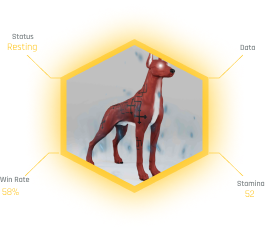
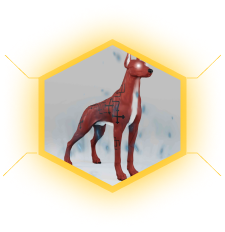
Update done

diff --git a/src/components/Card.jsx b/src/components/Card.jsx
@@ -2,13 +2,33 @@ import React from "react";
 import Dog from "../assets/images/cardDog.png";
 const Card = () => {
   return (
-    <div className="min-w-[370px] max-w-[420px] overflow-hidden rounded-xl border border-violet-500">
+    <div className="min-w-[390px] max-w-[420px] overflow-hidden rounded-xl border border-violet-500">
       <div className="w-full bg-violet-500 px-4 py-2 text-center">
         <h3 className="font-semibold text-xl">Lorem ipsum dolor sit amet.</h3>
         <p className="text-white font-semibold">Lorem, ipsum dolor.</p>
       </div>
-      <div className="flex items-center justify-center">
-        <img className="min-w-[320px]" src={Dog} alt="" />
+      <div className="flex items-center justify-center relative py-10">
+        <div className="text-white absolute top-8 left-8 text-center">
+          <p className="text-sm">Status</p>
+          <p className="text-lg font-semibold text-yellow-500">Resting</p>
+        </div>
+        <div className="text-white absolute top-8 right-8 text-center">
+          <p className="text-sm">Data</p>
+          <p className="text-lg font-semibold text-yellow-500">Lorem</p>
+        </div>
+        <div className="text-white absolute bottom-8 left-8 text-center">
+          <p className="text-sm">Win Rate</p>
+          <p className="text-lg font-semibold text-yellow-500">58%</p>
+        </div>
+        <div className="text-white absolute bottom-8 right-8 text-center">
+          <p className="text-sm">Stamina</p>
+          <p className="text-lg font-semibold text-yellow-500">52</p>
+        </div>
+        <img
+          className="min-w-[180px] hover:scale-110 duration-200"
+          src={Dog}
+          alt=""
+        />
       </div>
       <div className="w-[80%] rounded-t-xl text-center mx-auto bg-violet-500 py-2 px-3">
         <p className="font-bold text-white">55% for you</p>

diff --git a/src/components/Header.jsx b/src/components/Header.jsx
@@ -27,7 +27,12 @@ const Header = () => {
           <div className="flex flex-col items-center ">
             <p className="bg-[#0f0f2c] -mb-4 z-10 px-2 font-bold">Sort By</p>
             <p className="border pt-3 pb-1 border-gray-600 text-gray-300 rounded-full min-w-fit px-7">
-              Didest
+              <select class="bg-transparent text-gray-500 focus:outline-none font-semibold">
+                <option value="US">United States</option>
+                <option value="CA">Canada</option>
+                <option value="FR">France</option>
+                <option value="DE">Germany</option>
+              </select>
             </p>
           </div>
         </div>
